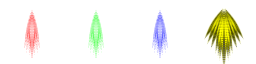
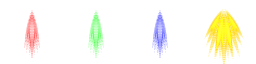
hyper system

Changed region(s): [[0.7812, 0.125, 0.9688, 1.0]]

diff --git a/src/Player.js b/src/Player.js
@@ -36,9 +36,6 @@ gls2.Player = tm.createClass(
     muteki: false,
     gameScene : null,
 
-    /** ハイパーゲージ(0～100) */
-    hyperGauge: 100,
-
     /** @protected */
     speed: 4.5,
     bits: null,
@@ -98,11 +95,11 @@ gls2.Player = tm.createClass(
         this.hyperCircle0 = tm.app.CircleShape(80, 80, {
             fillStyle: "rgba(0,0,0,0)",
             strokeStyle: tm.graphics.LinearGradient(0,0,0,80).addColorStopList([
-                { offset:0.0, color:"rgba(100,100,255,0.0)" },
-                { offset:0.3, color:"rgba(100,100,255,0.1)" },
+                { offset:0.0, color:"rgba(255,255,100,0.0)" },
+                { offset:0.3, color:"rgba(255,255,100,0.1)" },
                 { offset:0.5, color:"rgba(255,255,255,1.0)" },
-                { offset:0.7, color:"rgba(100,100,255,0.1)" },
-                { offset:1.0, color:"rgba(100,100,255,0.0)" },
+                { offset:0.7, color:"rgba(255,255,100,0.1)" },
+                { offset:1.0, color:"rgba(255,255,100,0.0)" },
             ]).toStyle(),
             lineWidth: 2.0,
         }).addChildTo(this);
@@ -114,11 +111,11 @@ gls2.Player = tm.createClass(
         this.hyperCircle1 = tm.app.CircleShape(80, 80, {
             fillStyle: "rgba(0,0,0,0)",
             strokeStyle: tm.graphics.LinearGradient(0,0,0,80).addColorStopList([
-                { offset:0.0, color:"rgba(100,100,255,0.0)" },
-                { offset:0.3, color:"rgba(100,100,255,0.1)" },
+                { offset:0.0, color:"rgba(255,255,100,0.0)" },
+                { offset:0.3, color:"rgba(255,255,100,0.1)" },
                 { offset:0.5, color:"rgba(255,255,255,1.0)" },
-                { offset:0.7, color:"rgba(100,100,255,0.1)" },
-                { offset:1.0, color:"rgba(100,100,255,0.0)" },
+                { offset:0.7, color:"rgba(255,255,100,0.1)" },
+                { offset:1.0, color:"rgba(255,255,100,0.0)" },
             ]).toStyle(),
             lineWidth: 2.0,
         }).addChildTo(this);
@@ -184,7 +181,8 @@ gls2.Player = tm.createClass(
 
             // ショット
             this.fireLaser = (pressZ && pressC) || this.pressTimeC === LASER_FRAME;
-            this.fireShot = !this.fireLaser && (0 <= this.pressTimeC || pressZ) && app.frame % 5 === 0;
+            var shotInterval = this.gameScene.isHyperMode ? 3 : 5;
+            this.fireShot = !this.fireLaser && (0 <= this.pressTimeC || pressZ) && app.frame % shotInterval === 0;
             if (pressZ) {
                 this.pressTimeC = 0;
             }
@@ -207,16 +205,19 @@ gls2.Player = tm.createClass(
             if (this.fireShot) {
                 var s = Math.sin(app.frame * 0.2);
                 var sb;
-                sb = gls2.ShotBullet.fire(this.x-7 - s*6, this.y-5, -90);
+                var color = this.gameScene.isHyperMode?3:this.type;
+                sb = gls2.ShotBullet.fire(color, this.x-7 - s*6, this.y-5, -90);
                 if (sb !== null) sb.addChildTo(this.gameScene);
-                sb = gls2.ShotBullet.fire(this.x+7 + s*6, this.y-5, -90);
+                sb = gls2.ShotBullet.fire(color, this.x+7 + s*6, this.y-5, -90);
                 if (sb !== null) sb.addChildTo(this.gameScene);
             }
 
             if (kb.getKeyDown("x")) {
-                if (false) {
-                    // TODO ハイパー
+                if (this.gameScene.hyperGauge === 1) {
+                    // ハイパー
+                    this.gameScene.startHyperMode();
                 } else if (!this.gameScene.isBombActive && this.gameScene.bomb > 0) {
+                    // ボム
                     gls2.Bomb(this, this.gameScene)
                         .setPosition(Math.clamp(this.x, SC_W*0.2, SC_W*0.8), Math.max(this.y - SC_H*0.5, SC_H*0.3))
                         .addChildTo(this.gameScene);
@@ -224,7 +225,7 @@ gls2.Player = tm.createClass(
             }
         }
 
-        this.hyperCircle0.visible = this.hyperCircle1.visible = this.hyperGauge === 100;
+        this.hyperCircle0.visible = this.hyperCircle1.visible = this.gameScene.hyperGauge === 1;
 
         // ビット
         this.controlBit(kb);
@@ -330,8 +331,8 @@ gls2.Bit = tm.createClass(
             this.y = -40;
             this.currentFrameIndex = 3;
         } else {
-            this.x = this.bit.x;
-            this.y = this.bit.y;
+            this.x = this.bit.x * (this.player.gameScene.isHyperMode ? 1.5 : 1);
+            this.y = this.bit.y * (this.player.gameScene.isHyperMode ? 1.5 : 1);
 
             var dir = this.bit.d * this.bit.dt;
             this.rotation = Math.radToDeg(dir);
@@ -344,7 +345,8 @@ gls2.Bit = tm.createClass(
 
             // ショット
             if (this.player.fireShot) {
-                var sb = gls2.ShotBullet.fire(g.x, g.y, this.parent.rotation + this.rotation - 90);
+                var color = this.player.gameScene.isHyperMode ? 3 : this.player.type;
+                var sb = gls2.ShotBullet.fire(color, g.x, g.y, this.parent.rotation + this.rotation - 90);
                 if (sb !== null) sb.addChildTo(core.gameScene);
             }
         }

diff --git a/src/scene/GameScene.js b/src/scene/GameScene.js
@@ -34,6 +34,13 @@ gls2.GameScene = tm.createClass(
     bombMaxInitial: 3,
     /** ボムスロット最大数 */
     bombMaxMax: 6,
+    /** ボム発動中 */
+    isBombActive: false,
+
+    /** ハイパーゲージ */
+    hyperGauge: 0,
+    /** ハイパーモード中 */
+    isHyperMode: false,
 
     groundLayer: null,
     playerLayer: null,
@@ -188,6 +195,8 @@ gls2.GameScene = tm.createClass(
 
         if (app.frame % 5 === 0) this.scoreLabel.update();
 
+        if (this.isHyperMode) this.addHyperGauge(-0.001);
+
         this.comboGauge -= 0.02;
         if (this.comboGauge <= 0) {
             if (this.comboCount > 0) {
@@ -230,6 +239,8 @@ gls2.GameScene = tm.createClass(
                     shot.genParticle(1);
                     shot.remove();
                     if (e.damage(shot.attackPower)) {
+                        this.addHyperGauge(0.01);
+
                         this.comboCount += 1;
                         this.maxComboCount = Math.max(this.maxComboCount, this.comboCount);
                         this.comboGauge = 1;
@@ -255,12 +266,16 @@ gls2.GameScene = tm.createClass(
                 if (gls2.Collision.isHit(e, laser)) {
                     laser.setHitY(e.y + e.boundingHeightBottom);
                     if (e.damage(laser.attackPower)) {
+                        this.addHyperGauge(0.01);
+
                         this.comboCount += 1;
                         this.maxComboCount = Math.max(this.maxComboCount, this.comboCount);
                         this.comboGauge = 1;
                         this.baseScore += e.score;
                         this.addScore(this.baseScore);
                     } else {
+                        this.addHyperGauge(0.001);
+
                         this.comboGauge = Math.max(this.comboGauge, 0.1);
                     }
                     laser.genParticle(2);
@@ -281,12 +296,16 @@ gls2.GameScene = tm.createClass(
                 var e = enemies[i];
                 if (gls2.Collision.isHit(e, aura)) {
                     if(e.damage(laser.attackPower)) {
+                        this.addHyperGauge(0.01);
+
                         this.comboCount += 1;
                         this.maxComboCount = Math.max(this.maxComboCount, this.comboCount);
                         this.comboGauge = 1;
                         this.baseScore += e.score;
                         this.addScore(this.baseScore);
                     } else {
+                        this.addHyperGauge(0.001);
+
                         this.comboCount += 0.1;
                         this.maxComboCount = Math.max(this.maxComboCount, this.comboCount);
                         this.comboGauge = Math.max(this.comboGauge, 0.1);
@@ -440,6 +459,7 @@ gls2.GameScene = tm.createClass(
         if (this.stage === null) return;
         canvas.clearColor(this.stage.background, 0, 0);
         this.drawComboGauge(canvas);
+        this.drawHyperGauge(canvas);
     },
 
     drawComboGauge: function(canvas) {
@@ -450,12 +470,30 @@ gls2.GameScene = tm.createClass(
         }
     },
 
+    drawHyperGauge: function(canvas) {
+        if (this.hyperGauge === 1) {
+            if (this.app.frame % 2 === 0) {
+                canvas.fillStyle = "rgba(255,255,255,0.6)";
+                canvas.fillRect(5, SC_H-12, 200, 9);
+            }
+        } else {
+            canvas.fillStyle = "rgba(255,255,0,0.3)";
+            canvas.fillRect(5, SC_H-12, 200, 9);
+            if (0 < this.hyperGauge) {
+                canvas.fillStyle = "rgba(255,255,100,1.0)";
+                var w = 200 * this.hyperGauge;
+                canvas.fillRect(5, SC_H-12, w, 9);
+            }
+        }
+    },
+
     gameStart: function(playerType) {
         this.scoreLabel.consoleWindow.clearBuf().clear();
 
         this.score = 0;
         this.zanki = 3;
         this.bomb = this.bombMax = this.bombMaxInitial;
+        this.hyperGauge = 0;
 
         if (this.player !== null) this.player.remove();
         gls2.Enemy.clearAll();
@@ -564,6 +602,29 @@ gls2.GameScene = tm.createClass(
             }
         }
         gls2.core.highScore = Math.max(gls2.core.highScore, this.score);
+    },
+
+    addHyperGauge: function(v) {
+        if (0<v && this.hyperGauge === 1) return;
+        if (v<0 && this.hyperGauge === 0) return;
+
+        this.hyperGauge = Math.clamp(this.hyperGauge + v, 0, 1);
+        if (this.hyperGauge === 1) {
+            this.println("hyper system, ready.");
+        } else if (this.hyperGauge === 0) {
+            this.endHyperMode();
+        }
+    },
+
+    startHyperMode: function() {
+        this.isHyperMode = true;
+
+        // すべての弾を消す
+        gls2.Danmaku.erase();
+    },
+
+    endHyperMode: function() {
+        this.isHyperMode = false;
     },
 
     extendZanki: function() {

diff --git a/src/ShotBullet.js b/src/ShotBullet.js
@@ -11,7 +11,6 @@ gls2.ShotBullet = tm.createClass({
         var SZ = 64;
         this.superInit("shotbullet", SZ, SZ);
         this.blendMode = "lighter";
-        this.setScale(1.5, 1.5);
 
         this.addEventListener("added", function() {
             activeList.push(this);
@@ -21,8 +20,6 @@ gls2.ShotBullet = tm.createClass({
             if (idx !== -1) activeList.splice(idx, 1);
             pool.push(this);
         });
-
-        this.boundingRadius = 32;
 
         if (origParticle === null) {
             var size = 16;
@@ -39,9 +36,6 @@ gls2.ShotBullet = tm.createClass({
                 .element
             );
         }
-
-        // TODO 自機タイプの寄って色を変える
-        this.setFrameIndex(2, 64, 64);
     },
 
     update: function() {
@@ -50,6 +44,22 @@ gls2.ShotBullet = tm.createClass({
 
         if (this.x < -60 || SC_W+60 < this.x || this.y < -60 || SC_H+60 < this.y) {
             this.remove();
+        }
+    },
+
+    /**
+     * col: 0=red, 1=green, 2=blue, 3=hyper
+     */
+    setColor: function(col) {
+        this.setFrameIndex(col, 64, 64);
+        if (col === 3) {
+            this.boundingRadius = 48;
+            this.setScale(2.0, 2.0);
+            this.attackPower = 2;
+        } else {
+            this.boundingRadius = 32;
+            this.setScale(1.5, 1.5);
+            this.attackPower = 1;
         }
     },
 
@@ -86,11 +96,14 @@ gls2.ShotBullet.createPool = function(count) {
         pool.push(gls2.ShotBullet());
     }
 };
-gls2.ShotBullet.fire = function(x, y, dir) {
+gls2.ShotBullet.fire = function(color, x, y, dir) {
     var shotBullet = pool.pop();
     if (shotBullet === undefined) {
         return null;
     }
+
+    shotBullet.setColor(color);
+
     var rad = gls2.math.degToRad(dir);
     shotBullet.vx = Math.cos(rad) * shotBullet.speed;
     shotBullet.vy = Math.sin(rad) * shotBullet.speed;

diff --git a/assets/raw/shotbullet.html b/assets/raw/shotbullet.html
@@ -40,8 +40,9 @@ tm.main(function() {
         if (rad <= 0) return;
         canvas
             .setFillStyle(tm.graphics.RadialGradient(x,y,0,x,y,rad*2).addColorStopList([
-                {offset:0,color:"rgba(  0,  0,  0,0.4)"},
-                {offset:1,color:"rgba(255,255,  0,0.4)"},
+                {offset:0.0,color:"rgba(255,255,100,0.3)"},
+                {offset:0.5,color:"rgba(255,200,  0,0.3)"},
+                {offset:1.0,color:"rgba(255,255,  0,0.0)"},
             ]).toStyle())
             .fillRect(x-rad,y-rad,rad*2,rad*2);
     };
@@ -96,14 +97,14 @@ tm.main(function() {
     d2(    0, 2.0, 26, dh);
     d2(-0.08, 1.7, 32, dh);
     d2( 0.08, 1.7, 32, dh);
-    d2(-0.12, 1.6, 32, dh);
-    d2( 0.12, 1.6, 32, dh);
-    d2(-0.18, 1.5, 32, dh);
-    d2( 0.18, 1.5, 32, dh);
-    d2(-0.30, 1.4, 32, dh);
-    d2( 0.30, 1.4, 32, dh);
-    d2(-0.42, 1.3, 32, dh);
-    d2( 0.42, 1.3, 32, dh);
+    d2(-0.16, 1.7, 32, dh);
+    d2( 0.16, 1.7, 32, dh);
+    d2(-0.18, 1.7, 32, dh);
+    d2( 0.18, 1.7, 32, dh);
+    d2(-0.30, 1.7, 32, dh);
+    d2( 0.30, 1.7, 32, dh);
+    d2(-0.42, 1.4, 32, dh);
+    d2( 0.42, 1.4, 32, dh);
     d2(-0.54, 1.2, 32, dh);
     d2( 0.54, 1.2, 32, dh);
     out.drawImage(canvas.element, S*3, 0);

diff --git a/src/ScoreLabel.js b/src/ScoreLabel.js
@@ -41,6 +41,12 @@ gls2.ScoreLabel = tm.createClass({
             this.drawTexture(tm.asset.AssetManager.get("tex1"), 64*3, 0, 64, 64, 5 + (i*32), 40, 32, 32);
         }
 
+        this.context.globalCompositeOperation = "source-over";
+        this.fillStyle = "rgba(255,255,255,0.5)";
+        for (var i = 0; i < this.gameScene.bomb; i++) {
+            this.fillRect(5+i*(20+5), SC_H-5-34, 20, 20);
+        } 
+
         this.consoleWindow.update();
         this.consoleWindow.draw(this);
     },
@@ -72,6 +78,7 @@ gls2.ScoreLabel = tm.createClass({
             this.setText("bold 40px Orbitron", "left", "top");
             this.strokeText(~~this.gameScene.comboCount + " HIT!!", 10, 100);
         }
+
     },
 
 });

diff --git a/src/GlShooter2.js b/src/GlShooter2.js
@@ -76,7 +76,7 @@ gls2.GlShooter2 = tm.createClass(
     _onLoadAssets: function() {
         gls2.Danmaku.setup();
         gls2.Effect.setup();
-        gls2.ShotBullet.createPool(50);
+        gls2.ShotBullet.createPool(100);
 
         this.gameScene = gls2.GameScene();
     },
